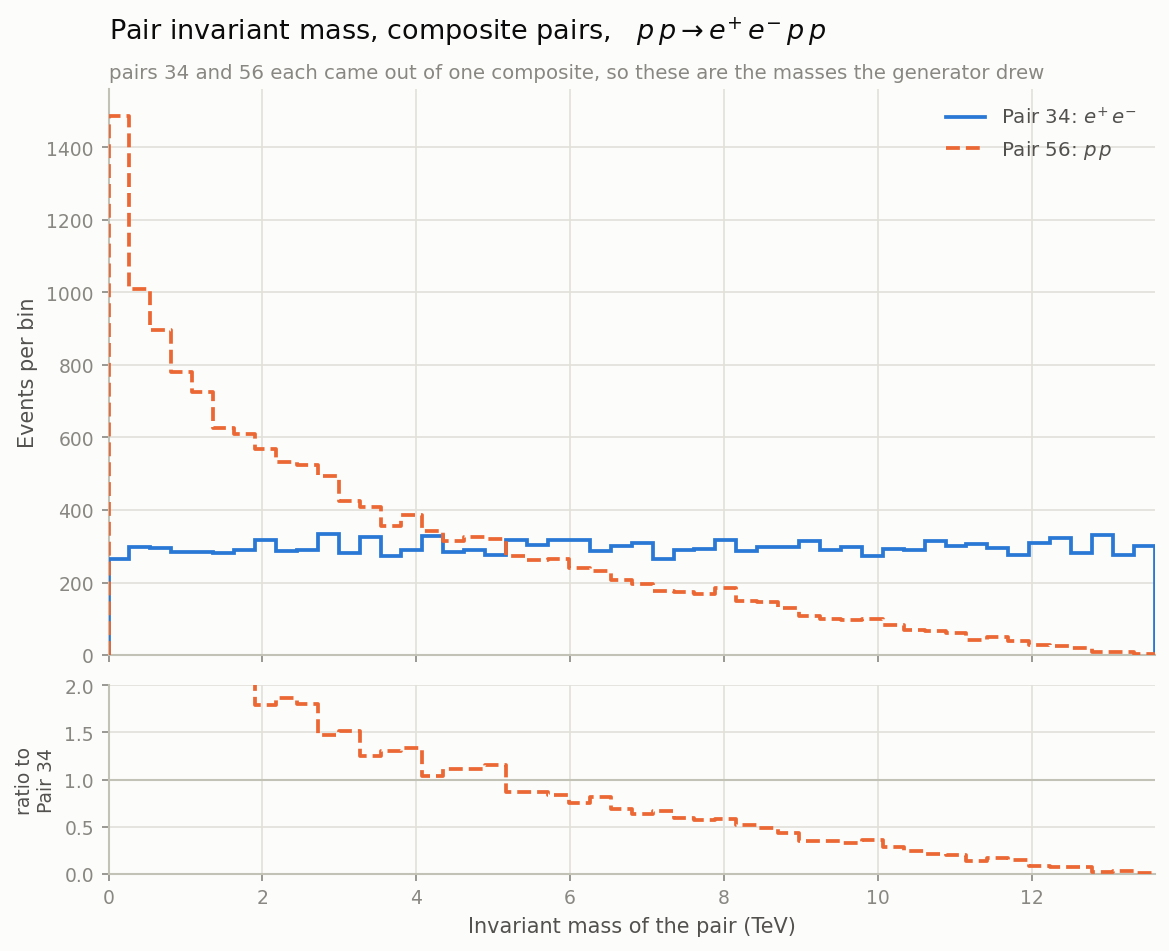
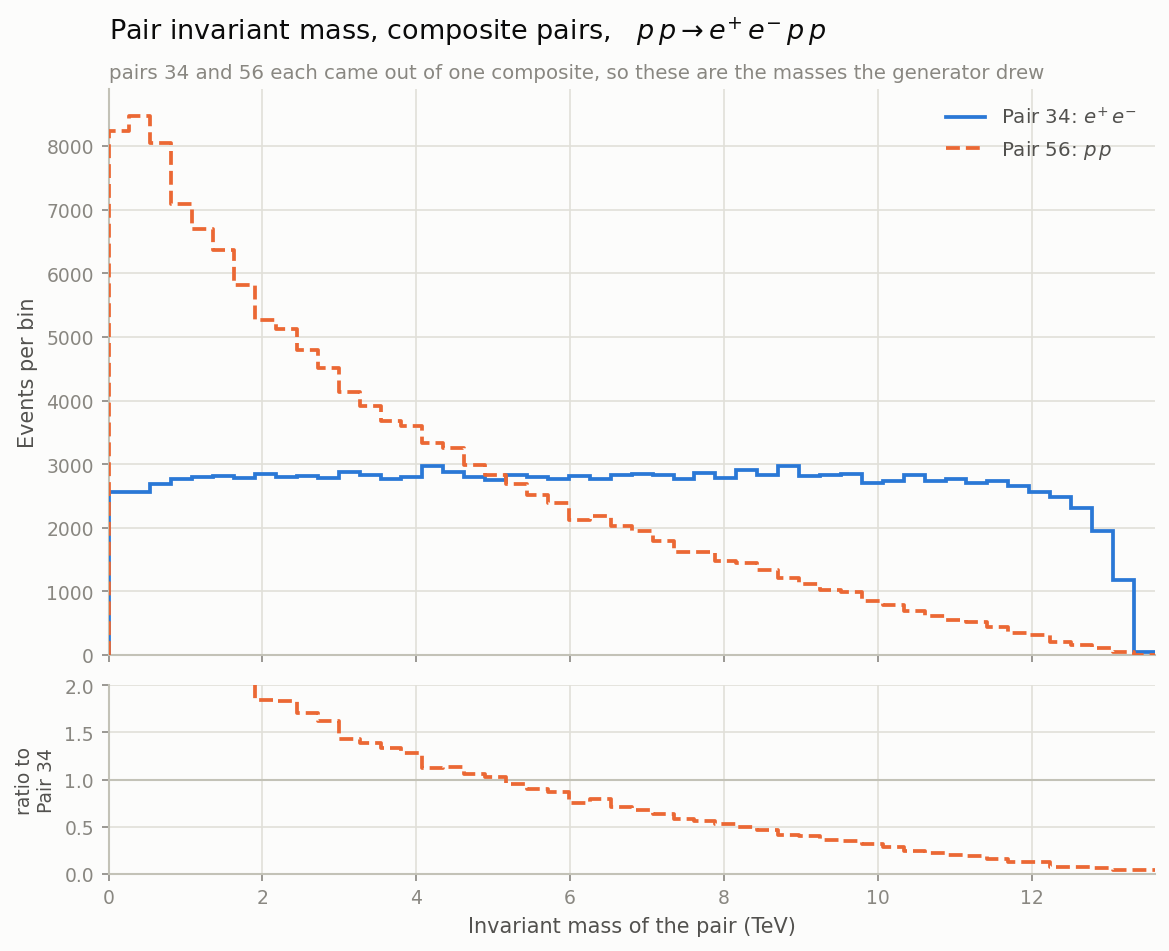
ran 1M events, draw to 3 graphs.

diff --git a/Report_and_Manual/README.md b/Report_and_Manual/README.md
@@ -11,5 +11,8 @@ is the 3D generalisation of equation 8. If a link to
 copy of the repository yet.
 
 The `figures/` subfolder holds the images used in the report's "Example of
-Numerical Results" section, drawn from the current `collision_data/events.txt`
-with the project's own graph scripts.
+Numerical Results" section. They are drawn with the project's own graph scripts
+from a separate run of 1,000,000 events (seed 2026), using only the events that
+pass all of the default cuts. That run is too large to keep on GitHub; to
+regenerate it, set `TARGET_LOGGED_EVENTS = 1000000` in `simulation.py` and point
+`OUTPUT_FILE` at `collision_data/events_1M.txt` (already in `.gitignore`).
